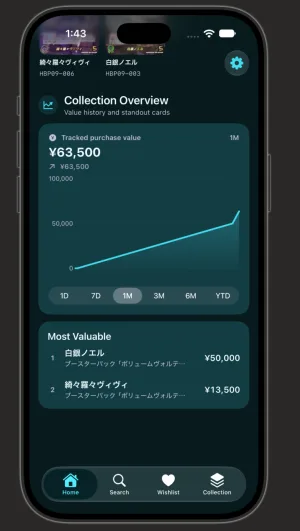
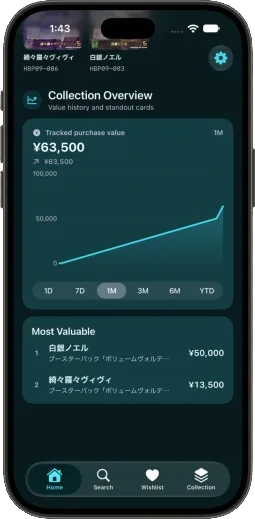
Cut out grey backdrop from holowish screenshots and fit gallery columns

diff --git a/public/projects.js b/public/projects.js
@@ -166,16 +166,16 @@ function holowishDemos(files) {
     ['card-filter.gif', 'filter cards', 'Holowish app demo filtering cards in the catalogue.'],
     ['change-outfit.gif', 'choose an outfit', 'Holowish app demo changing the featured talent outfit.'],
     ['change-theme.gif', 'switch themes', 'Holowish app demo changing the Oshi Hub theme.'],
-    ['collection-value.webp', 'value history', 'Holowish home screen showing collection purchase value history and the most valuable cards.'],
-    ['wishlist.webp', 'wishlist', 'Holowish wishlist showing a grid of saved cards.'],
-    ['collection.webp', 'collection', 'Holowish collection showing value history and a grid of owned cards.']
-  ].filter(([file]) => files.includes(file)).forEach(([file, caption, alt]) => {
+    ['collection-value.webp', 'value history', 'Holowish home screen showing collection purchase value history and the most valuable cards.', 255, 519],
+    ['wishlist.webp', 'wishlist', 'Holowish wishlist showing a grid of saved cards.', 246, 500],
+    ['collection.webp', 'collection', 'Holowish collection showing value history and a grid of owned cards.', 247, 502]
+  ].filter(([file]) => files.includes(file)).forEach(([file, caption, alt, width = 300, height = 652]) => {
     const figure = document.createElement('figure');
     const image = document.createElement('img');
     image.src = `/assets/holowish/${file}`;
     image.alt = alt;
-    image.width = 300;
-    image.height = 652;
+    image.width = width;
+    image.height = height;
     image.loading = 'lazy';
     const label = document.createElement('figcaption');
     label.textContent = caption;

diff --git a/public/styles.css b/public/styles.css
@@ -379,3 +379,5 @@ header > .wordmark, header > .project-back { margin-right: auto; }
 .project:hover .holo-type { color: #565f7e; }
 /* Drop the letterbox behind holowish demos; images keep their slot height and center in the same grid cell. */
 .holowish-gallery img { width: auto; max-width: 100%; background: transparent; }
+@media (min-width: 601px) { .holowish-gallery { grid-template-columns: repeat(auto-fit, minmax(120px, 152px)); gap: 20px 24px; } }
+.holowish-gallery img { margin: 0; }
